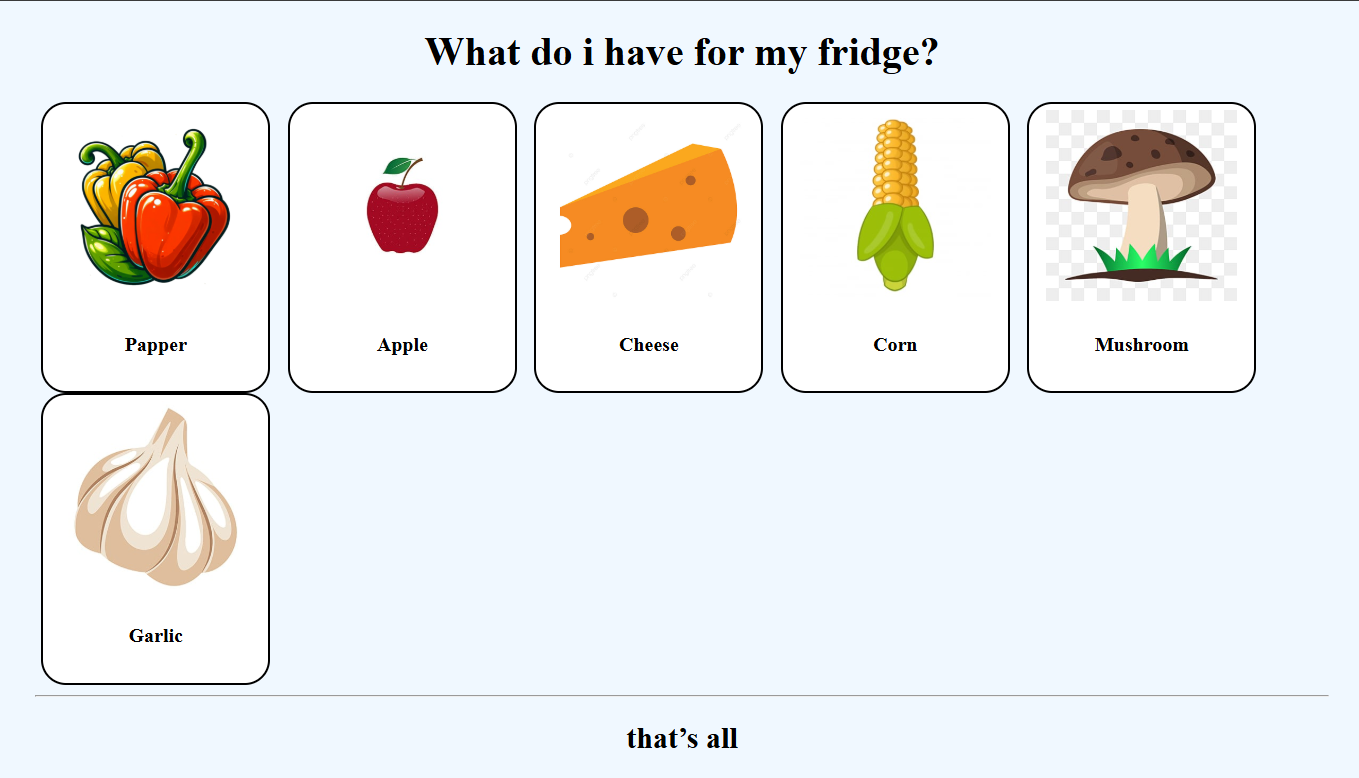
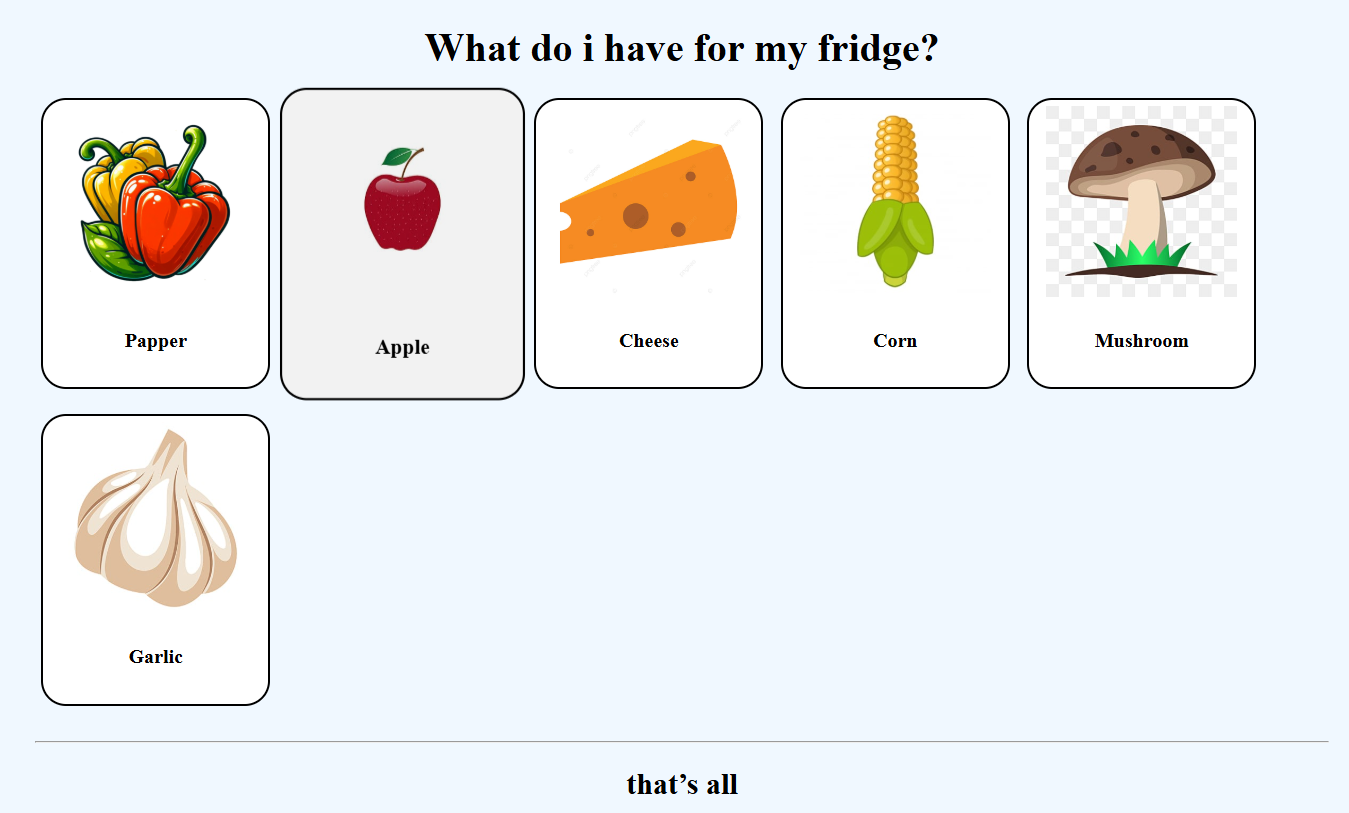
photo

diff --git a/7/apps/main.css b/7/apps/main.css
@@ -14,7 +14,8 @@ body {
 
     background-color: white;
     margin-bottom: 20px;
-    margin: 0 5px;
+    margin-left: 5px;
+    margin-right: 5px;
 }
 
 .product img {
